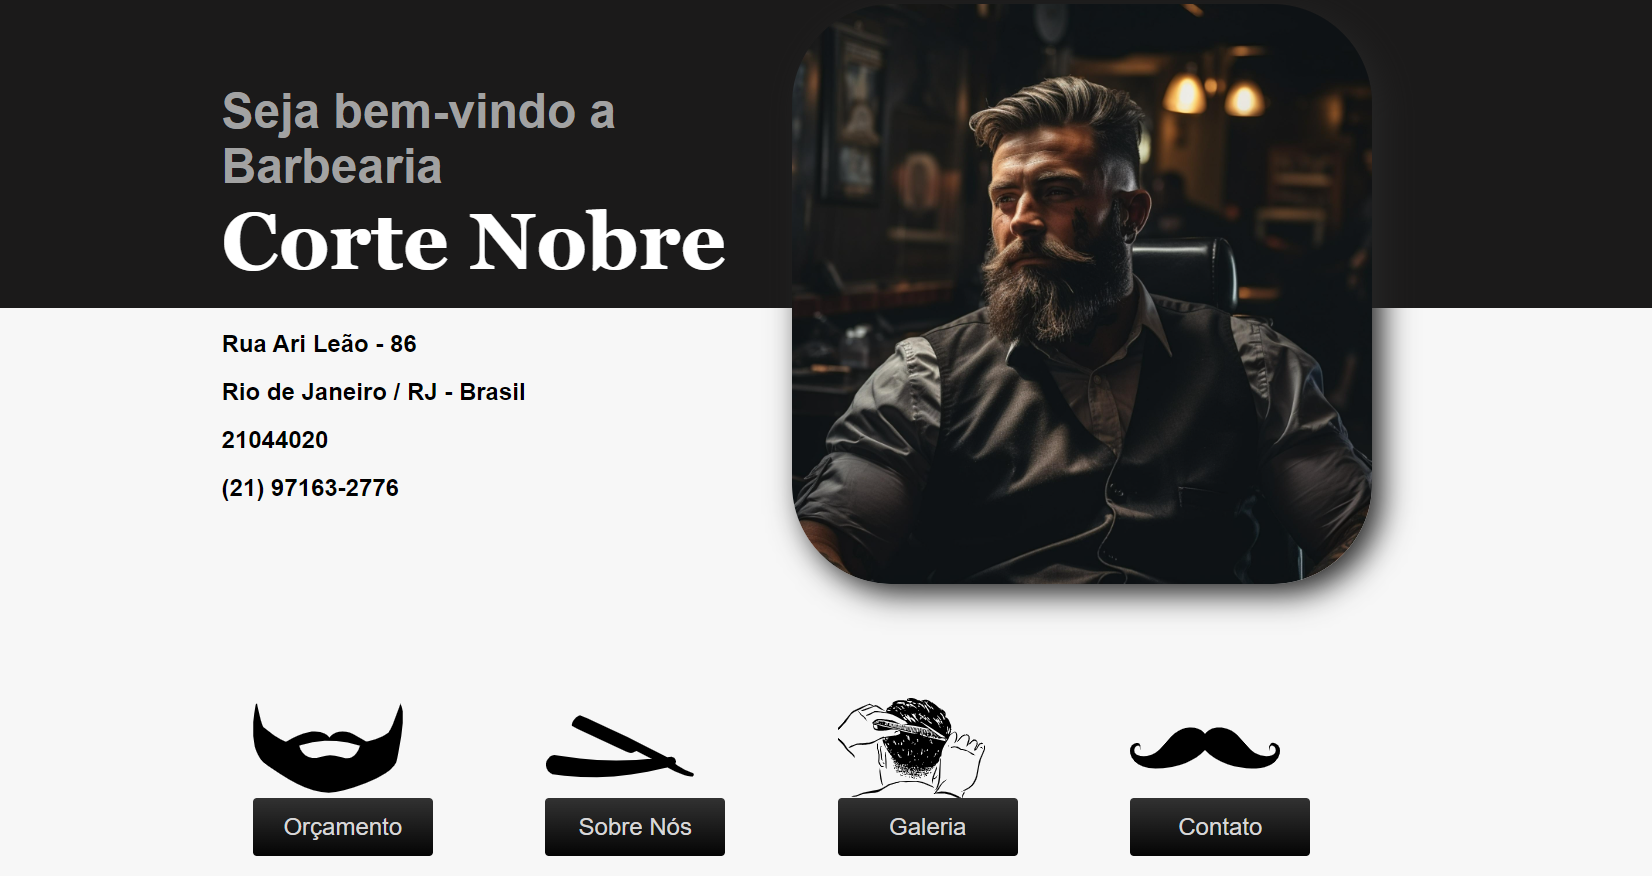
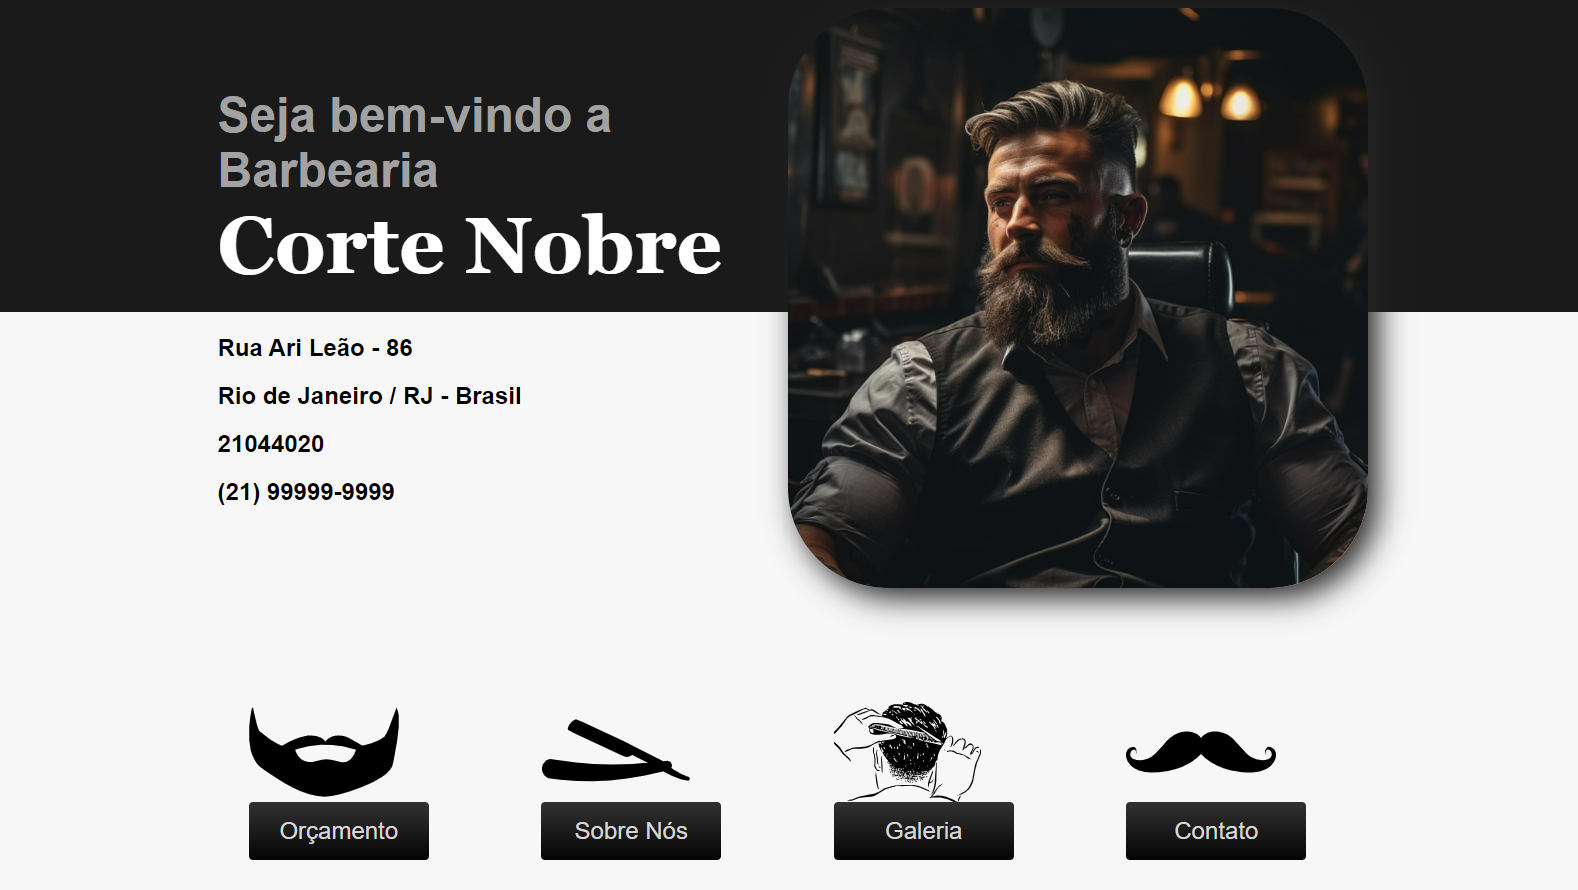
atualização de imagens e dados senciveis

diff --git a/index.html b/index.html
@@ -22,7 +22,7 @@
                         <p class="fadeInLeft" data-anime="600">Rua Ari Leão - 86 <br>
                             Rio de Janeiro / RJ - Brasil <br>
                             21044020 <br>
-                            (21) 97163-2776</p>
+                            (21) 99999-9999</p>
                     </div>
                 </div>
                 <div class=" imagem-de-capa ">
